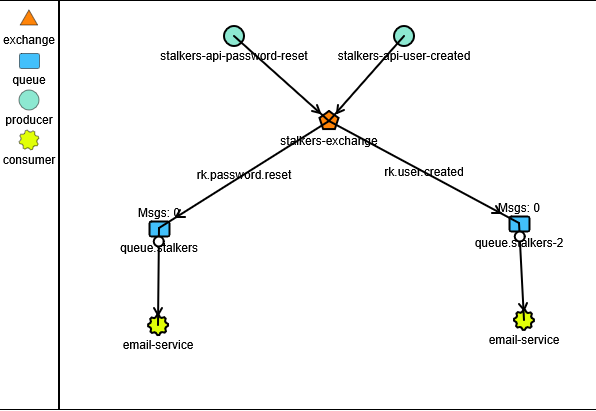
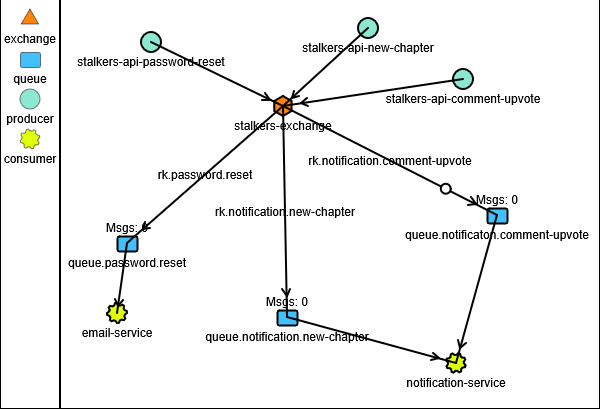
feat: add notification entity

diff --git a/src/main/java/miralhas/github/stalkers/domain/model/notification/Notification.java b/src/main/java/miralhas/github/stalkers/domain/model/notification/Notification.java
@@ -1,0 +1,79 @@
+package miralhas.github.stalkers.domain.model.notification;
+
+import jakarta.persistence.*;
+import lombok.*;
+import miralhas.github.stalkers.domain.model.auth.User;
+import org.hibernate.annotations.CreationTimestamp;
+import org.hibernate.proxy.HibernateProxy;
+
+import java.io.Serial;
+import java.io.Serializable;
+import java.time.OffsetDateTime;
+import java.util.HashSet;
+import java.util.Objects;
+import java.util.Set;
+
+
+@Entity
+@Getter
+@Setter
+@Inheritance(strategy = InheritanceType.SINGLE_TABLE)
+@DiscriminatorColumn(discriminatorType = DiscriminatorType.STRING, name = "notifcation_type")
+@NoArgsConstructor
+public class Notification implements Serializable {
+
+	public Notification(boolean isRead, OffsetDateTime createdAt, String title, String description, Set<User> recipients) {
+		this.isRead = isRead;
+		this.createdAt = createdAt;
+		this.title = title;
+		this.description = description;
+		this.recipients = recipients;
+	}
+
+	@Serial
+	private static final long serialVersionUID = 1L;
+
+	@Id
+	@GeneratedValue(strategy = GenerationType.IDENTITY)
+	private Long id;
+
+	@Column(nullable = false)
+	private boolean isRead;
+
+	@CreationTimestamp
+	@Column(nullable = true)
+	private OffsetDateTime createdAt;
+
+	@Column(nullable = false)
+	private String title;
+
+	@Column(nullable = false, columnDefinition = "TEXT")
+	private String description;
+
+	@ManyToMany(
+			fetch = FetchType.LAZY,
+			cascade = {CascadeType.DETACH, CascadeType.MERGE, CascadeType.REFRESH}
+	)
+	@JoinTable(
+			name = "notification_recipients",
+			joinColumns = @JoinColumn(name = "notification_id"),
+			inverseJoinColumns = @JoinColumn(name = "recipient_id")
+	)
+	private Set<User> recipients = new HashSet<>();
+
+	@Override
+	public final boolean equals(Object o) {
+		if (this == o) return true;
+		if (o == null) return false;
+		Class<?> oEffectiveClass = o instanceof HibernateProxy ? ((HibernateProxy) o).getHibernateLazyInitializer().getPersistentClass() : o.getClass();
+		Class<?> thisEffectiveClass = this instanceof HibernateProxy ? ((HibernateProxy) this).getHibernateLazyInitializer().getPersistentClass() : this.getClass();
+		if (thisEffectiveClass != oEffectiveClass) return false;
+		Notification that = (Notification) o;
+		return getId() != null && Objects.equals(getId(), that.getId());
+	}
+
+	@Override
+	public final int hashCode() {
+		return this instanceof HibernateProxy ? ((HibernateProxy) this).getHibernateLazyInitializer().getPersistentClass().hashCode() : getClass().hashCode();
+	}
+}

diff --git a/src/main/java/miralhas/github/stalkers/domain/model/notification/NewChapterNotification.java b/src/main/java/miralhas/github/stalkers/domain/model/notification/NewChapterNotification.java
@@ -1,0 +1,44 @@
+package miralhas.github.stalkers.domain.model.notification;
+
+import jakarta.persistence.Column;
+import jakarta.persistence.DiscriminatorValue;
+import jakarta.persistence.Entity;
+import lombok.*;
+import miralhas.github.stalkers.domain.model.auth.User;
+
+import java.time.OffsetDateTime;
+import java.util.Set;
+
+@Entity
+@Getter
+@Setter
+@NoArgsConstructor
+@DiscriminatorValue("NEW_CHAPTER")
+public class NewChapterNotification extends Notification {
+
+	@Builder
+	public NewChapterNotification(
+			String newChapterSlug,
+			String novelSlug,
+			OffsetDateTime newChapterReleaseDate,
+			boolean isRead,
+			OffsetDateTime createdAt,
+			String title,
+			String description,
+			Set<User> recipients
+	) {
+		super(isRead, createdAt, title, description, recipients);
+		this.newChapterSlug = newChapterSlug;
+		this.novelSlug = novelSlug;
+		this.newChapterReleaseDate = newChapterReleaseDate;
+	}
+
+	@Column(nullable = true)
+	private String newChapterSlug;
+
+	@Column(nullable = true)
+	private String novelSlug;
+
+	@Column(nullable = true)
+	private OffsetDateTime newChapterReleaseDate;
+}

diff --git a/src/main/java/miralhas/github/stalkers/domain/repository/UserRepository.java b/src/main/java/miralhas/github/stalkers/domain/repository/UserRepository.java
@@ -9,10 +9,10 @@ import java.util.Optional;
 
 public interface UserRepository extends JpaRepository<User, Long> {
 
-	@Query("from User u where u.email = :email")
+	@Query("from User u LEFT JOIN FETCH u.roles where u.email = :email")
 	Optional<User> findUserByEmail(String email);
 
-	@Query("from User u where u.username = :username")
+	@Query("from User u LEFT JOIN FETCH u.roles where u.username = :username")
 	Optional<User> findUserByUsername(String username);
 
 	@Override

diff --git a/src/main/java/miralhas/github/stalkers/domain/repository/NotificationRepository.java b/src/main/java/miralhas/github/stalkers/domain/repository/NotificationRepository.java
@@ -1,0 +1,9 @@
+package miralhas.github.stalkers.domain.repository;
+
+import miralhas.github.stalkers.domain.model.notification.Notification;
+import org.springframework.data.jpa.repository.JpaRepository;
+import org.springframework.data.repository.NoRepositoryBean;
+
+@NoRepositoryBean
+public interface NotificationRepository extends JpaRepository<Notification, Long> {
+}

diff --git a/src/main/java/miralhas/github/stalkers/domain/repository/NewChapterNotificationRepository.java b/src/main/java/miralhas/github/stalkers/domain/repository/NewChapterNotificationRepository.java
@@ -1,0 +1,4 @@
+package miralhas.github.stalkers.domain.repository;
+
+public interface NewChapterNotificationRepository extends NotificationRepository{
+}
